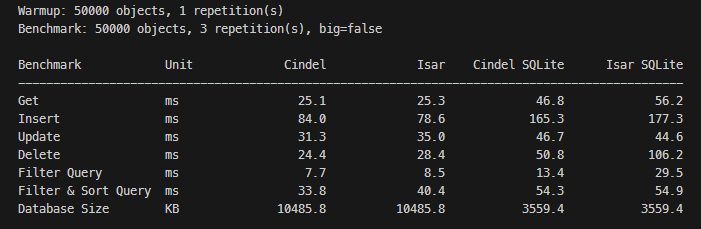
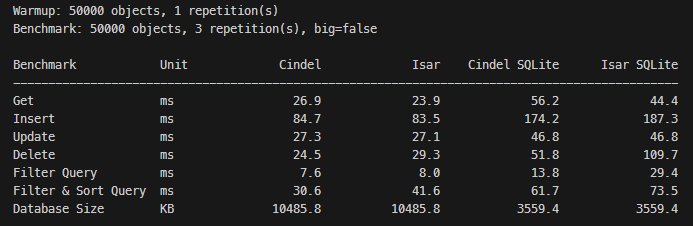
chore: add repo templates and CI checks

diff --git a/.github/pull_request_template.md b/.github/pull_request_template.md
@@ -1,0 +1,78 @@
+# Pull Request
+
+## Description
+
+<!-- Provide a brief description of the changes in this PR -->
+
+## Type of Change
+
+<!-- Check the type of change your PR introduces -->
+
+- [ ] Bug fix (non-breaking change which fixes an issue)
+- [ ] New feature (non-breaking change which adds functionality)
+- [ ] Breaking change (fix or feature that would cause existing functionality to not work as expected)
+- [ ] Documentation update
+- [ ] Performance improvement
+- [ ] Code refactoring
+- [ ] Test improvements
+
+## Related Issues
+
+<!-- Link to related issues using "Fixes #issue_number" or "Relates to #issue_number" -->
+
+## Changes Made
+
+<!-- List the main changes made in this PR -->
+
+-
+-
+-
+
+## Testing
+
+<!-- Describe how you tested your changes -->
+
+- [ ] All existing tests pass
+- [ ] Added tests for new functionality
+- [ ] Tested on multiple platforms (if applicable)
+- [ ] Manual testing performed
+
+## Platforms Tested
+
+<!-- Check all platforms where you tested your changes -->
+
+- [ ] Android
+- [ ] iOS
+- [ ] macOS
+- [ ] Windows
+- [ ] Linux
+- [ ] Web (if applicable)
+
+## Documentation
+
+<!-- Check if documentation needs updating -->
+
+- [ ] Code is self-documenting
+- [ ] Added/updated code comments
+- [ ] Updated README (if needed)
+- [ ] Updated API documentation (if needed)
+
+## Checklist
+
+<!-- Ensure your PR meets these requirements -->
+
+- [ ] My code follows the project's style guidelines
+- [ ] I have performed a self-review of my code
+- [ ] I have made corresponding changes to the documentation
+- [ ] My changes generate no new warnings or errors
+- [ ] I have added tests that prove my fix is effective or that my feature works
+- [ ] New and existing unit tests pass locally with my changes
+- [ ] Any dependent changes have been merged and published
+
+## Screenshots/Videos
+
+<!-- Add screenshots or videos if your changes affect the UI, Inspector, or behavior -->
+
+## Additional Notes
+
+<!-- Add any additional information that reviewers should know -->

diff --git a/.github/ISSUE_TEMPLATE/bug_report.md b/.github/ISSUE_TEMPLATE/bug_report.md
@@ -1,0 +1,38 @@
+---
+name: Bug report
+about: Create a report to help us improve
+title: ''
+labels: bug
+assignees: mainser
+
+---
+
+
+
+### Steps to Reproduce
+
+Please describe exactly how to reproduce the problem you are running into.
+
+
+
+### Code sample
+
+```dart
+Provide a few simple lines of code to show your problem.
+```
+
+
+
+### Details
+
+ - Platform: iPhone 17 Pro max, Galaxy s26 ultra, x86 Android Emulator on Windows etc.
+ - Flutter version: [e.g. 3.41.0]
+ - Cindel version: [e.g. 1.5.0]
+
+
+---
+
+
+ - [ ] I searched for similar issues already
+ - [ ] I filled the details section with the exact device model and version
+ - [ ] I am able to provide a reproducible example

diff --git a/.github/ISSUE_TEMPLATE/feature_request.md b/.github/ISSUE_TEMPLATE/feature_request.md
@@ -1,0 +1,22 @@
+---
+name: Feature request
+about: Suggest an idea for this project
+title: ''
+labels: enhancement
+assignees: ''
+
+---
+
+**Is your feature request related to a problem? Please describe.**
+A clear and concise description of what the problem is. Ex. I'm always frustrated when [...]
+
+**Describe the solution you'd like**
+A clear and concise description of what you want to happen.
+
+**Describe alternatives you've considered**
+A clear and concise description of any alternative solutions or features you've considered.
+
+**Version**
+ - Platform: iOS, Android, Mac, Windows, Linux, Web
+ - Flutter version: [e.g. 3.40.3]
+ - Cindel version: [e.g. 0.6.0]

diff --git a/README.md b/README.md
@@ -28,6 +28,14 @@ Useful project files:
 - [CONTRIBUTING.md](CONTRIBUTING.md)
 - [ROADMAP.md](ROADMAP.md)
 
+## Benchmarks
+
+Benchmarks provide only a rough indication of database performance, but the results show that Cindel is already quite fast.
+
+<img src=".github/assets/benchmarks.png"/>
+
+If you are interested in more benchmarks or want to check how Cindel performs on your device you can run the [benchmarks](https://github.com/mainser/cindel_benchmark) yourself.
+
 ## License
 
 Cindel is licensed under the Apache License, Version 2.0. See [LICENSE](LICENSE).

diff --git a/packages/cindel/README.md b/packages/cindel/README.md
@@ -285,10 +285,6 @@ final db = await Cindel.openInMemory(schemas: [UserSchema]);
 addTearDown(db.close);
 ```
 
-## Benchmarks
-<img src="https://raw.githubusercontent.com/mainser/Cindel/main/.github/assets/benchmarks.png" width="100%" />
-
-
 ## License
 
 Cindel is licensed under the Apache License, Version 2.0. See the repository